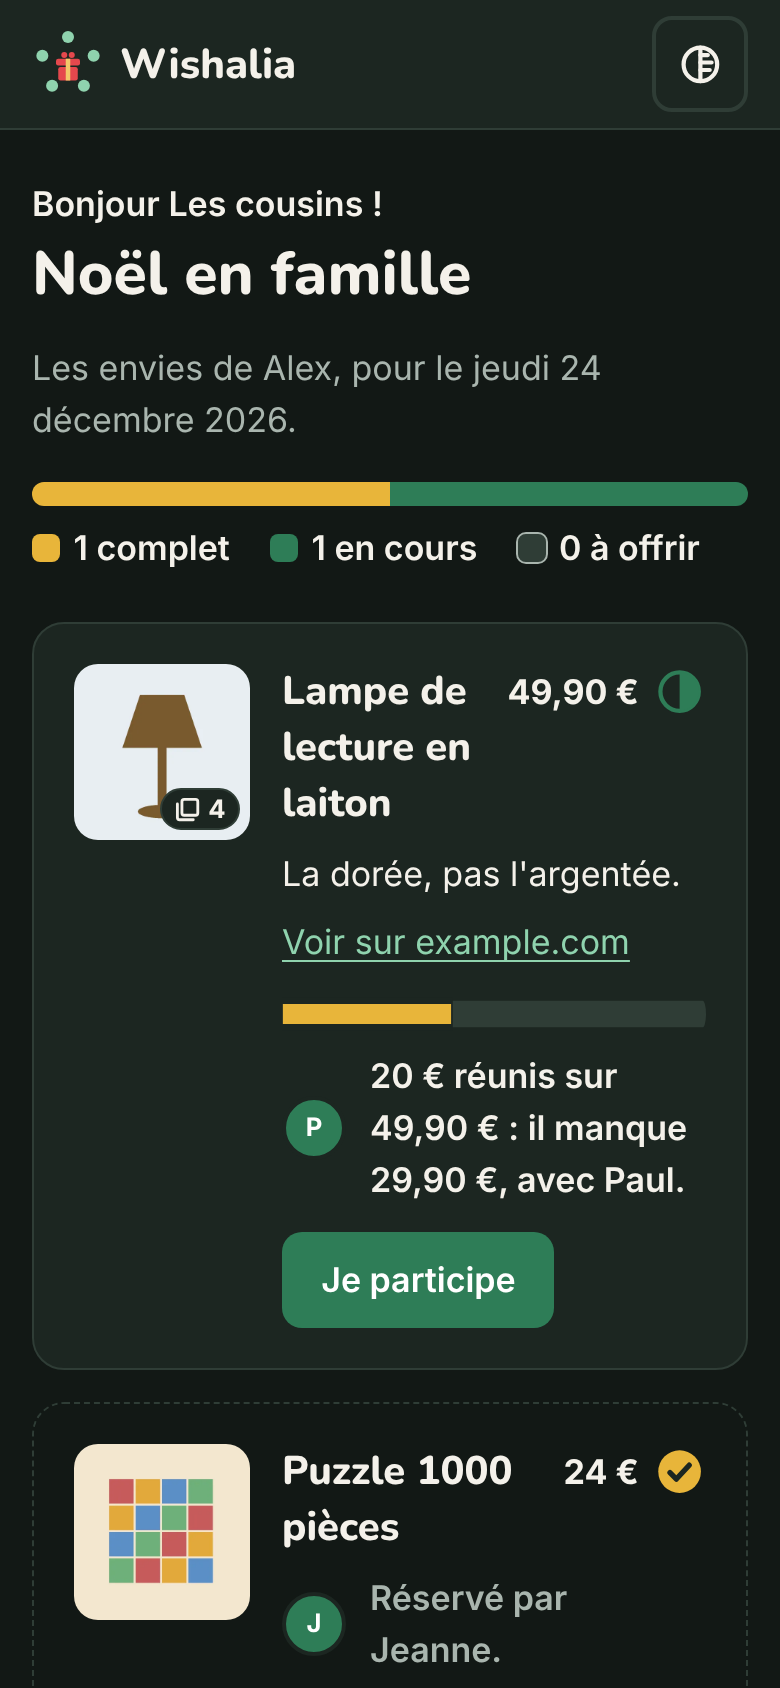
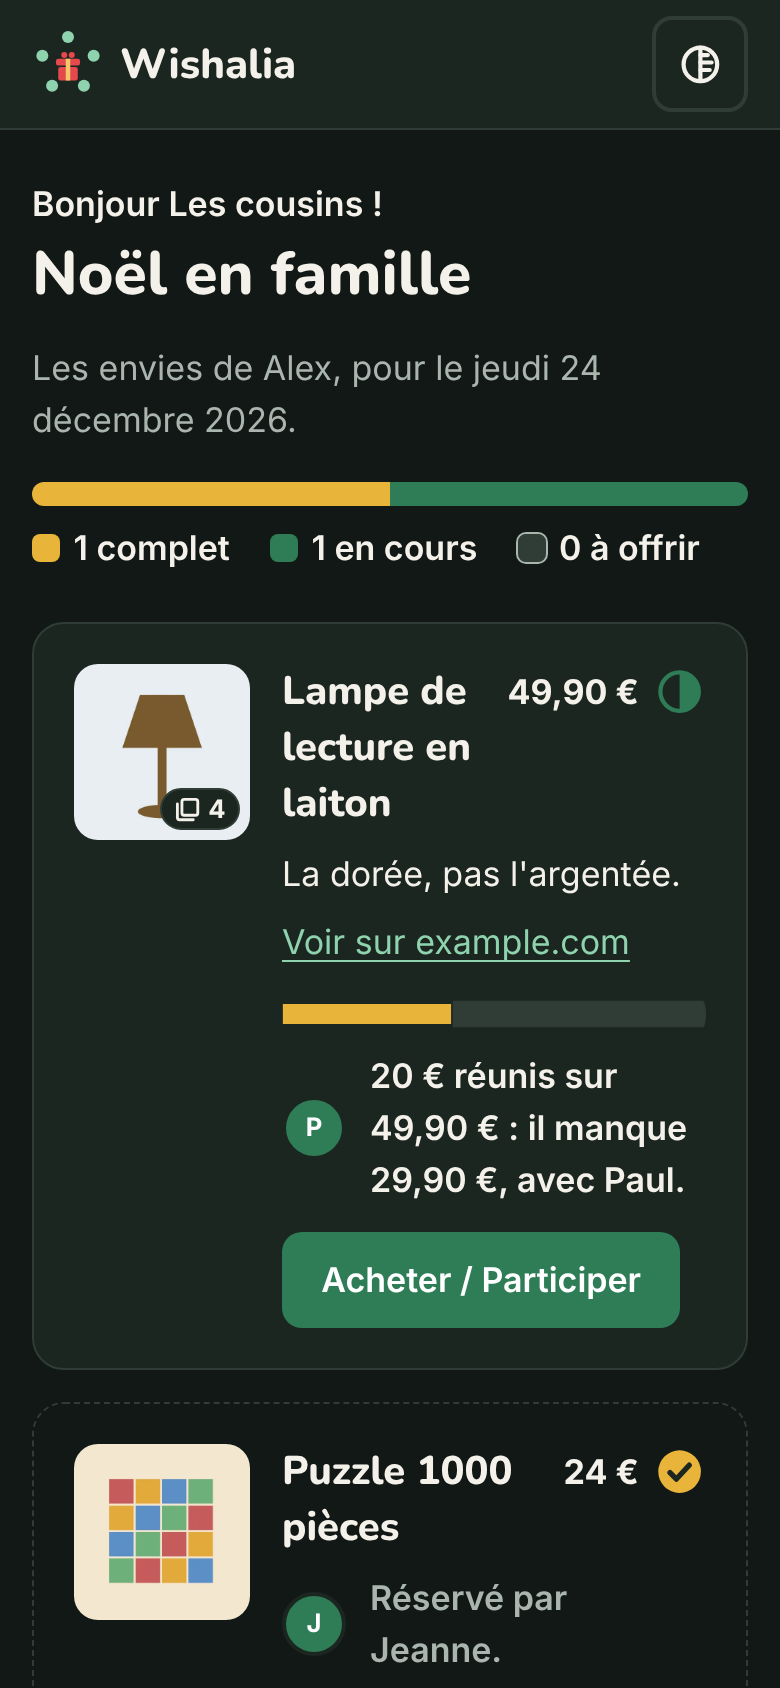
[FIX] One « Acheter / Participer » button on every item (#111)
Pools, several copies and gifts for every occasion get the same button too;
every give form is sent with « Valider ».

Claude-Session: https://claude.ai/code/session_01RHrAMxBH9gh2wAMqe5stEe

Changed region(s): [[0.4, 0.7085, 0.8923, 0.8009]]

diff --git a/packages/ui/src/public/view.test.ts b/packages/ui/src/public/view.test.ts
@@ -10,7 +10,7 @@ const formatDay = (date: string) => view.formatDay(date, "fr");
 const formatEuros = (cents: number) => view.formatEuros(cents, "fr");
 const gaugeLine = (value: view.Gauge) => view.gaugeLine(value, "fr");
 const giveError = (code: string) => view.giveError(code, "fr");
-const giveLabel = (entry: PublicItem) => view.giveLabel(entry, "fr");
+const giveLabel = (_entry: PublicItem) => view.giveLabel("fr");
 const givers = (value: Funding) => view.givers(value, "fr");
 const heading = (value: Parameters<typeof view.heading>[0]) => view.heading(value, "fr");
 const initials = (name: string | null) => view.initials(name, "fr");
@@ -184,11 +184,12 @@ describe("giving helpers", () => {
   });
 
   it("names the button after the item", () => {
-    expect(giveLabel(item({ kind: "pool" }))).toBe("Je participe");
+    // The same button on every item, with or without a price, whatever its kind
+    expect(giveLabel(item({ kind: "pool" }))).toBe("Acheter / Participer");
     expect(giveLabel(item())).toBe("Acheter / Participer");
     expect(giveLabel(item({ priceCents: 2000 }))).toBe("Acheter / Participer");
-    expect(giveLabel(item({ repeatable: true }))).toBe("Je le réserve");
-    expect(giveLabel(item({ kind: "quantity", quantity: 3 }))).toBe("J'en réserve");
+    expect(giveLabel(item({ repeatable: true }))).toBe("Acheter / Participer");
+    expect(giveLabel(item({ kind: "quantity", quantity: 3 }))).toBe("Acheter / Participer");
   });
 
   it("says what went wrong in plain words", () => {
@@ -236,7 +237,7 @@ describe("a gift shared by amounts", () => {
       contributors: paul,
     });
     expect(plain(standing(started))).toBe("50 € réunis sur 200 € : il manque 150 €, avec Paul.");
-    expect(giveLabel(started)).toBe("Je participe");
+    expect(giveLabel(started)).toBe("Acheter / Participer");
     expect(canGive(started, { viewer: "guest", event: null })).toBe(true);
   });
 
@@ -245,7 +246,7 @@ describe("a gift shared by amounts", () => {
       funding: funding({ state: "in_progress", totalCents: 4500, remainingCents: null, contributors: paul }),
     });
     expect(plain(standing(started))).toBe("45 € réunis, avec Paul.");
-    expect(giveLabel(started)).toBe("Je participe");
+    expect(giveLabel(started)).toBe("Acheter / Participer");
     expect(canGive(started, { viewer: "guest", event: null })).toBe(true);
     expect(poolBar(started, [])?.target).toBeNull();
   });
@@ -272,7 +273,7 @@ describe("a gift shared by amounts", () => {
   });
 
   it("says so in English", () => {
-    expect(view.giveLabel(priced(), "en")).toBe("Buy / Chip in");
+    expect(view.giveLabel("en")).toBe("Buy / Chip in");
     expect(view.giveError("amount_too_high", "en")).toContain("more than what is missing");
   });
 });
@@ -391,7 +392,7 @@ describe("in English", () => {
   });
 
   it("names the buttons, the errors and the gauge", () => {
-    expect(view.giveLabel(item({ kind: "pool" }), en)).toBe("I'll chip in");
+    expect(view.giveLabel(en)).toBe("Buy / Chip in");
     expect(view.giveError("weird", en)).toContain("Try again");
     expect(view.withdrawError("list_closed", en)).toContain("lifted");
     expect(view.heading({ list: null, event: null }, en)).toBe("Wishlist");

diff --git a/apps/web-public/src/lib/GiveForm.svelte b/apps/web-public/src/lib/GiveForm.svelte
@@ -57,12 +57,11 @@
   const partChosen = $derived(failed?.way === "part");
   const price = $derived(priceOf(item));
   const missing = $derived(price === null ? null : (item.funding?.remainingCents ?? price));
-  const submitLabel = $derived(shares && !started ? m.confirm : giveLabel(item, i18n.locale));
 </script>
 
 <details class="give" open={failed !== null} data-live-hold>
   <summary class="button secondary">
-    <span class="closed">{giveLabel(item, i18n.locale)}</span><span class="opened">{m.close}</span>
+    <span class="closed">{giveLabel(i18n.locale)}</span><span class="opened">{m.close}</span>
   </summary>
   <form
     method="POST"
@@ -207,7 +206,7 @@
       </span>
     </label>
 
-    <button type="submit" disabled={sending}>{sending ? m.sending : submitLabel}</button>
+    <button type="submit" disabled={sending}>{sending ? m.sending : m.confirm}</button>
   </form>
 </details>
 

diff --git a/packages/ui/src/public/view.ts b/packages/ui/src/public/view.ts
@@ -136,13 +136,8 @@ export function canGive(item: PublicItem, view: { viewer: string; event: PublicE
   return item.kind === "pool" || unitsLeft(item) > 0;
 }
 
-/** The button that opens the form, and sends it. */
-export function giveLabel(item: PublicItem, locale: Locale): string {
-  const labels = viewMessages(locale).giveLabel;
-  if (item.kind === "pool" || sharing(item)) return labels.pool;
-  if (takesShares(item)) return labels.share;
-  return item.kind === "quantity" && unitsLeft(item) > 1 ? labels.several : labels.one;
-}
+/** The button that opens the form: the same on every item, whatever it is (its form asks the rest). */
+export const giveLabel = (locale: Locale): string => viewMessages(locale).giveLabel;
 
 /** What went wrong, in plain words. */
 export const giveError = (code: string, locale: Locale) => {

diff --git a/packages/i18n/src/messages/fr/view.ts b/packages/i18n/src/messages/fr/view.ts
@@ -37,13 +37,8 @@ export const view = {
   poolOvershoot: (amount: string) => ` : objectif atteint, ${amount} en excédent`,
   poolMissing: (amount: string) => ` : il manque ${amount}`,
   poolWith: (who: string) => `, avec ${who}`,
-  giveLabel: {
-    pool: "Je participe",
-    several: "J'en réserve",
-    one: "Je le réserve",
-    /** Any gift given once, with or without a price: bought whole, or shared by amounts. */
-    share: "Acheter / Participer",
-  },
+  /** The one button of every item a guest can still give: its form then asks what that item needs. */
+  giveLabel: "Acheter / Participer",
   giveErrors: {
     already_reserved: "Quelqu'un vient de le réserver. Regardez les autres envies !",
     not_enough_left: "Il n'en reste plus autant : choisissez un nombre plus petit.",

diff --git a/packages/i18n/src/messages/en/view.ts b/packages/i18n/src/messages/en/view.ts
@@ -27,12 +27,7 @@ export const view: ViewMessages = {
   poolOvershoot: (amount) => `: goal reached, ${amount} over`,
   poolMissing: (amount) => `: ${amount} to go`,
   poolWith: (who) => `, with ${who}`,
-  giveLabel: {
-    pool: "I'll chip in",
-    several: "I'll reserve some",
-    one: "I'll reserve it",
-    share: "Buy / Chip in",
-  },
+  giveLabel: "Buy / Chip in",
   giveErrors: {
     already_reserved: "Someone has just reserved it. Have a look at the other wishes!",
     not_enough_left: "There aren't that many left: choose a smaller number.",

diff --git a/CHANGELOG.md b/CHANGELOG.md
@@ -8,9 +8,10 @@ All notable changes to this project are documented here. The format follows
 
 ### Changed
 
-- In the guests' view, a gift given once looks and works the same with or without a price: one
-  « Acheter / Participer » button (« Buy / Chip in »), and the same short form, « Je l'achète en
-  entier » or « Je participe avec un montant ». Without a price, the shares take any amount (« 45 €
+- In the guests' view, every item has the same « Acheter / Participer » button (« Buy / Chip in »),
+  whatever its kind, and every form is sent with « Valider ». A gift given once works the same with
+  or without a price: the same short form, « Je l'achète en entier » or « Je participe avec un
+  montant ». Without a price, the shares take any amount (« 45 €
   réunis, avec Paul. ») and the gift stays partly given until the owner marks it received.
   `POST /public/contributions` takes an `amountCents` on any unique gift given once.
 - Every card of the guests' view and of the preview keeps its square: an empty frame when the item

diff --git a/docs/public-view.md b/docs/public-view.md
@@ -109,11 +109,9 @@ it, the page stays in place and the focus goes back to the title.
 
 ## Giving
 
-Under every item still open, one button says what it does, at the same place on every card (the
-left of the text column): « Acheter / Participer » (« Buy / Chip in ») for any gift given once, with
-or without a price, « J'en réserve » when several copies are left, « Je le réserve » for a gift for
-every occasion, « Je participe » for a pool or a gift others already started to share. It opens a
-short form, in the page, that asks only what the gift needs:
+Under every item still open, the same button, at the same place on every card (the left of the
+text column): « Acheter / Participer » (« Buy / Chip in »), whatever the item is. It opens a short
+form, in the page, that asks only what the gift needs, and sends it with « Valider »:
 
 - for a gift given once, with or without a price, the same two choices: « Je l'achète en entier
   (35 €) » (without a price: « Je l'achète en entier ») or « Je participe avec un montant », then
